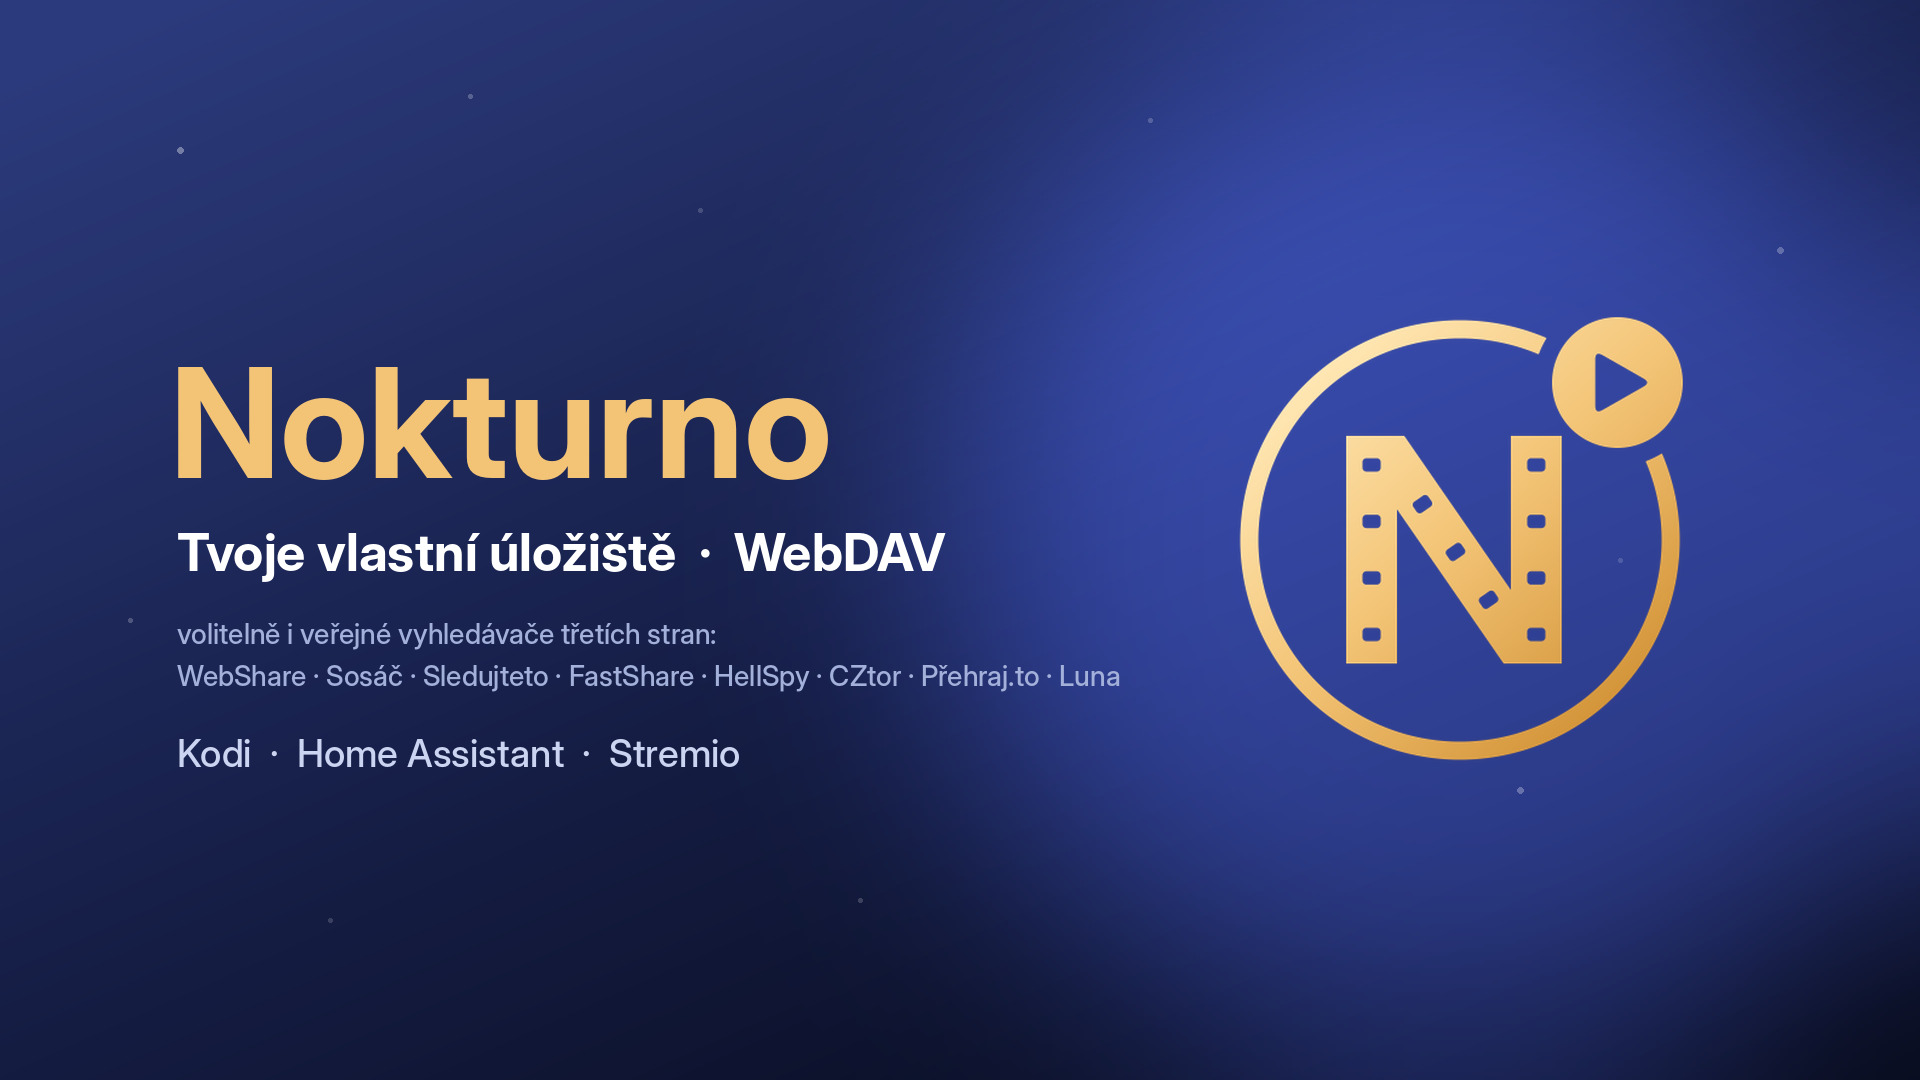
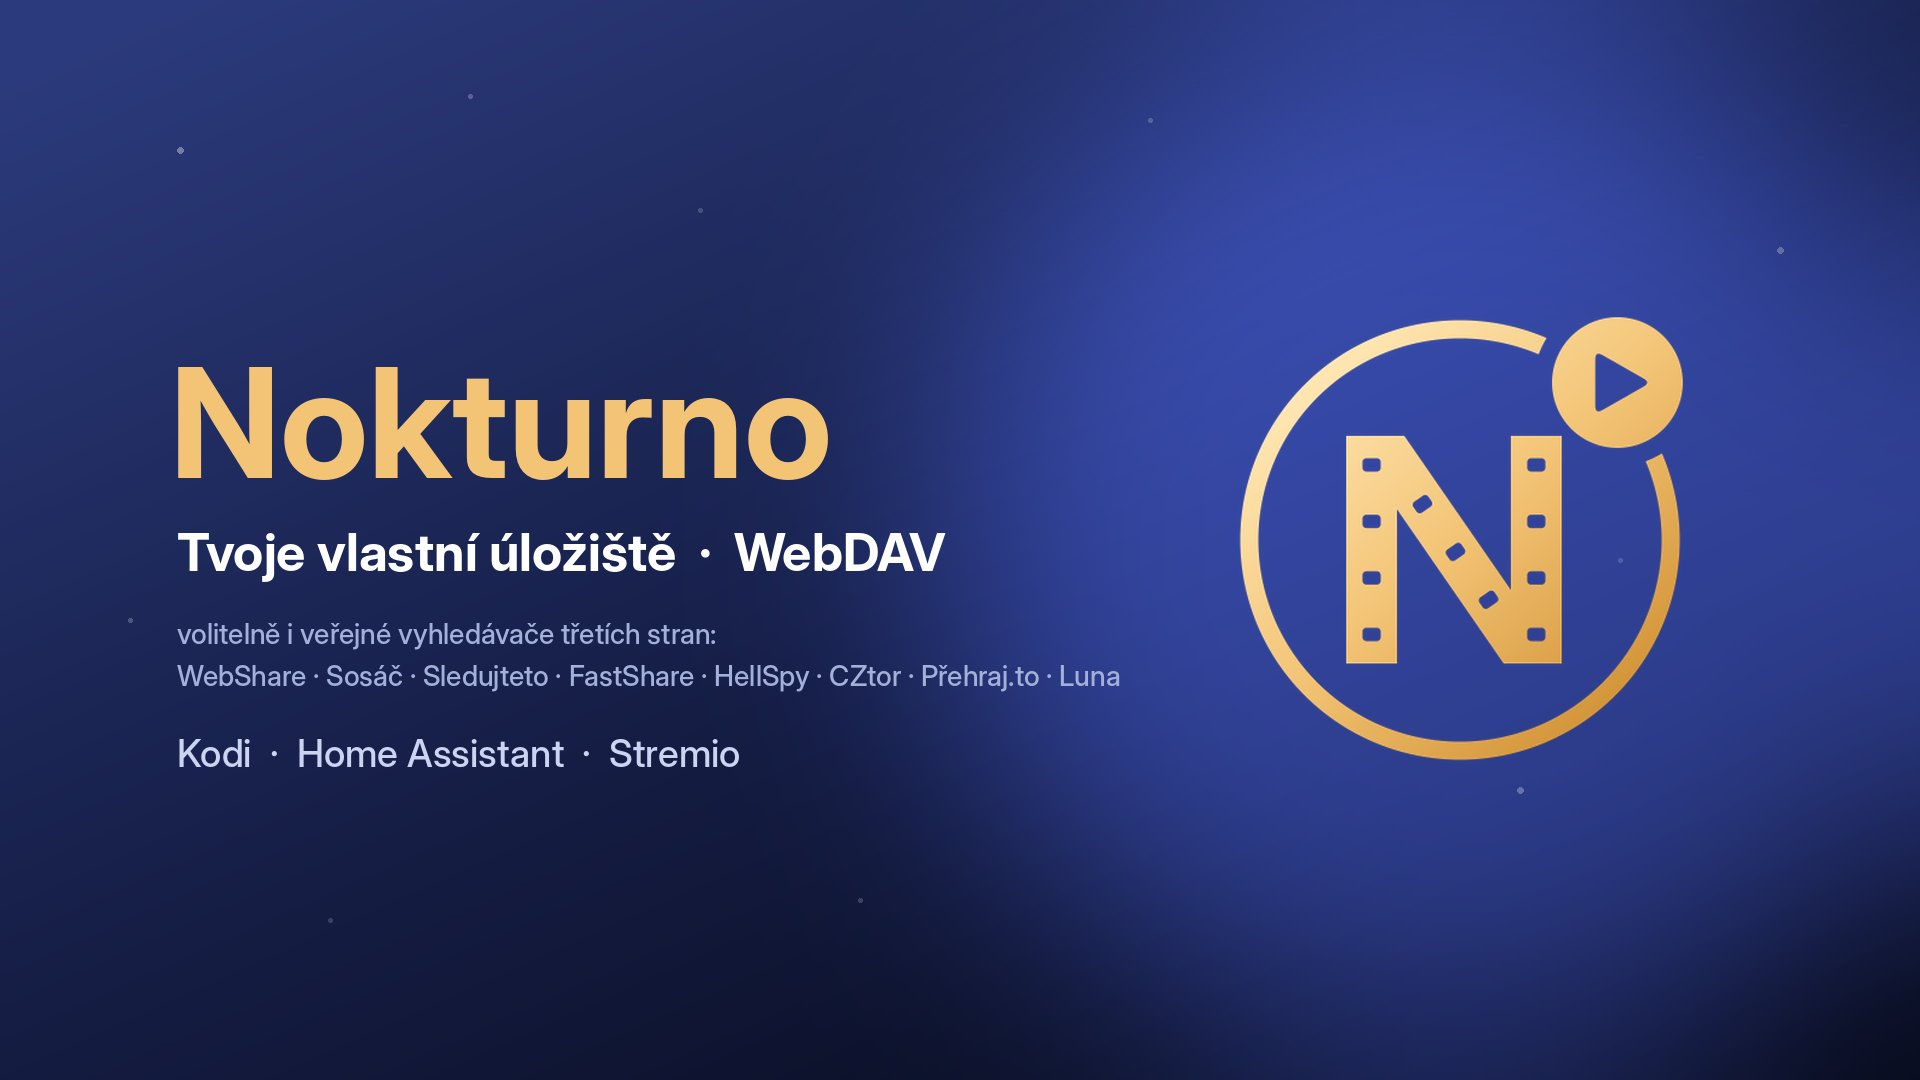
Screenshoty v addon.xml, fanart q85

diff --git a/tools/build_repo.py b/tools/build_repo.py
@@ -40,19 +40,16 @@ def addon_version(path):
 
 
 def addon_assets(path):
-    """Cesty k ikoně/fanartu přesně tak, jak je addon.xml deklaruje (relativně
-    ke kořeni doplňku) — Kodi je při náhledu v repozitáři hledá na
+    """Cesty k ikoně, fanartu a screenshotům přesně tak, jak je addon.xml deklaruje
+    (relativně ke kořeni doplňku), jako seznam dvojic (tag, cesta) — screenshotů
+    bývá víc. Kodi je při náhledu v repozitáři hledá na
     `<datadir>/<addon_id>/<tahle cesta>`, ne vedle zipu na pevném místě."""
     root = ET.parse(os.path.join(path, "addon.xml")).getroot()
     assets = root.find(".//assets")
     if assets is None:
-        return {}
-    out = {}
-    for tag in ("icon", "fanart"):
-        el = assets.find(tag)
-        if el is not None and el.text:
-            out[tag] = el.text.strip()
-    return out
+        return []
+    return [(el.tag, el.text.strip()) for el in assets
+            if el.tag in ("icon", "fanart", "screenshot") and el.text and el.text.strip()]
 
 
 def zip_addon(addon_id, src, version):
@@ -93,7 +90,7 @@ def zip_addon(addon_id, src, version):
     # při náhledu v Instalovat ze zdroje stahuje `<datadir>/<addon_id>/<ta cesta>`
     # rovnou, bez ohledu na to, kde leží uvnitř zipu. Špatné umístění hlásilo
     # při instalaci chybu (404 na ikonu), i když samotný zip byl v pořádku.
-    for tag, rel in addon_assets(src).items():
+    for tag, rel in addon_assets(src):
         cand = os.path.join(src, rel)
         if not os.path.exists(cand):
             continue

diff --git a/tests/test_addon.py b/tests/test_addon.py
@@ -446,8 +446,15 @@ class TestAddonXml(unittest.TestCase):
         self.assertEqual(default.changelog_lines(self.version), [])
 
     def test_ikona_a_fanart_existuji(self):
-        for tag, rel in build_repo.addon_assets(str(ROOT)).items():
+        for tag, rel in build_repo.addon_assets(str(ROOT)):
             self.assertTrue((ROOT / rel).is_file(), f"{tag}: {rel}")
+
+    def test_screenshoty_jdou_do_repozitare(self):
+        # bez nich by náhled v „Instalovat z repozitáře“ hlásil 404, stejně jako dřív u ikony
+        tags = [tag for tag, _rel in build_repo.addon_assets(str(ROOT))]
+        self.assertIn("icon", tags)
+        self.assertIn("fanart", tags)
+        self.assertGreaterEqual(tags.count("screenshot"), 1)
 
 
 class TestBuildRepo(unittest.TestCase):

diff --git a/tools/make_icon.py b/tools/make_icon.py
@@ -227,7 +227,7 @@ def make_fanart(path):
         dr.text((177, 616 + i * (size + 14)), radek, font=f, fill=(163, 176, 218))
     dr.text((177, 730), "Kodi  ·  Home Assistant  ·  Stremio",
             font=font("InterDisplay-Medium.otf", 38), fill=(203, 212, 240))
-    sky.save(path, quality=92, subsampling=0)
+    sky.save(path, quality=85, optimize=True, progressive=True)
 
 
 RELEASE = (1200, 630)   # poměr, který Facebook i fóra ukazují bez ořezu
